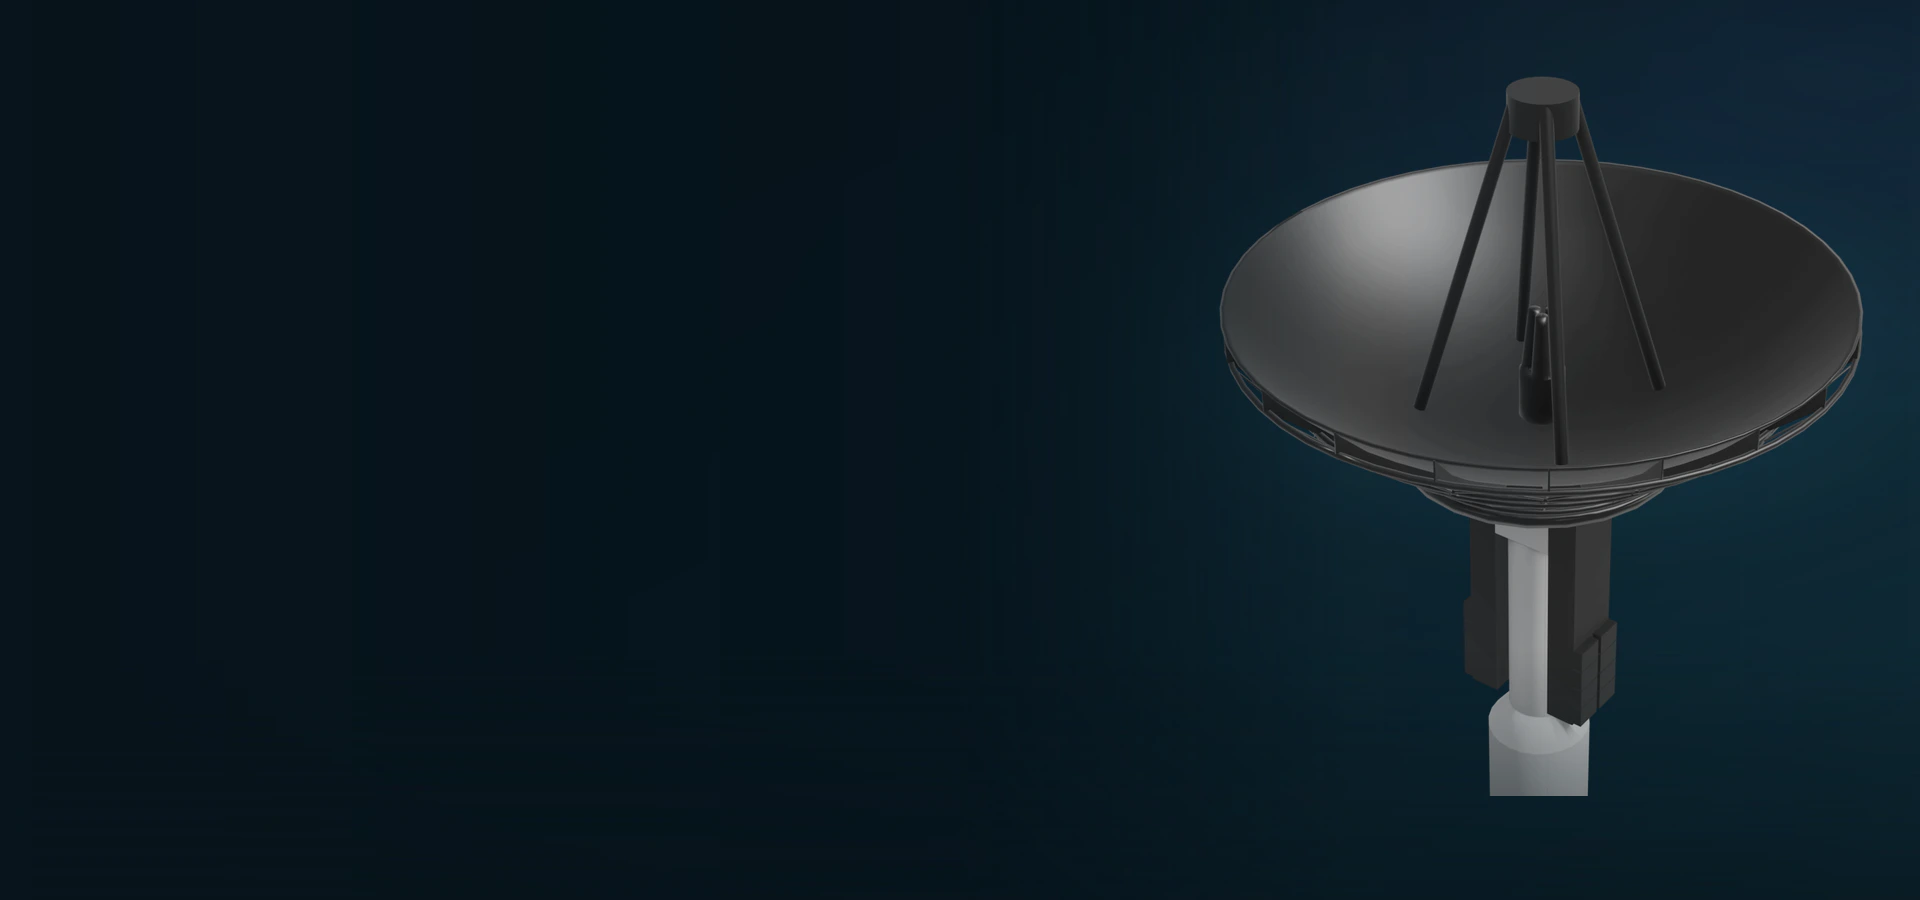
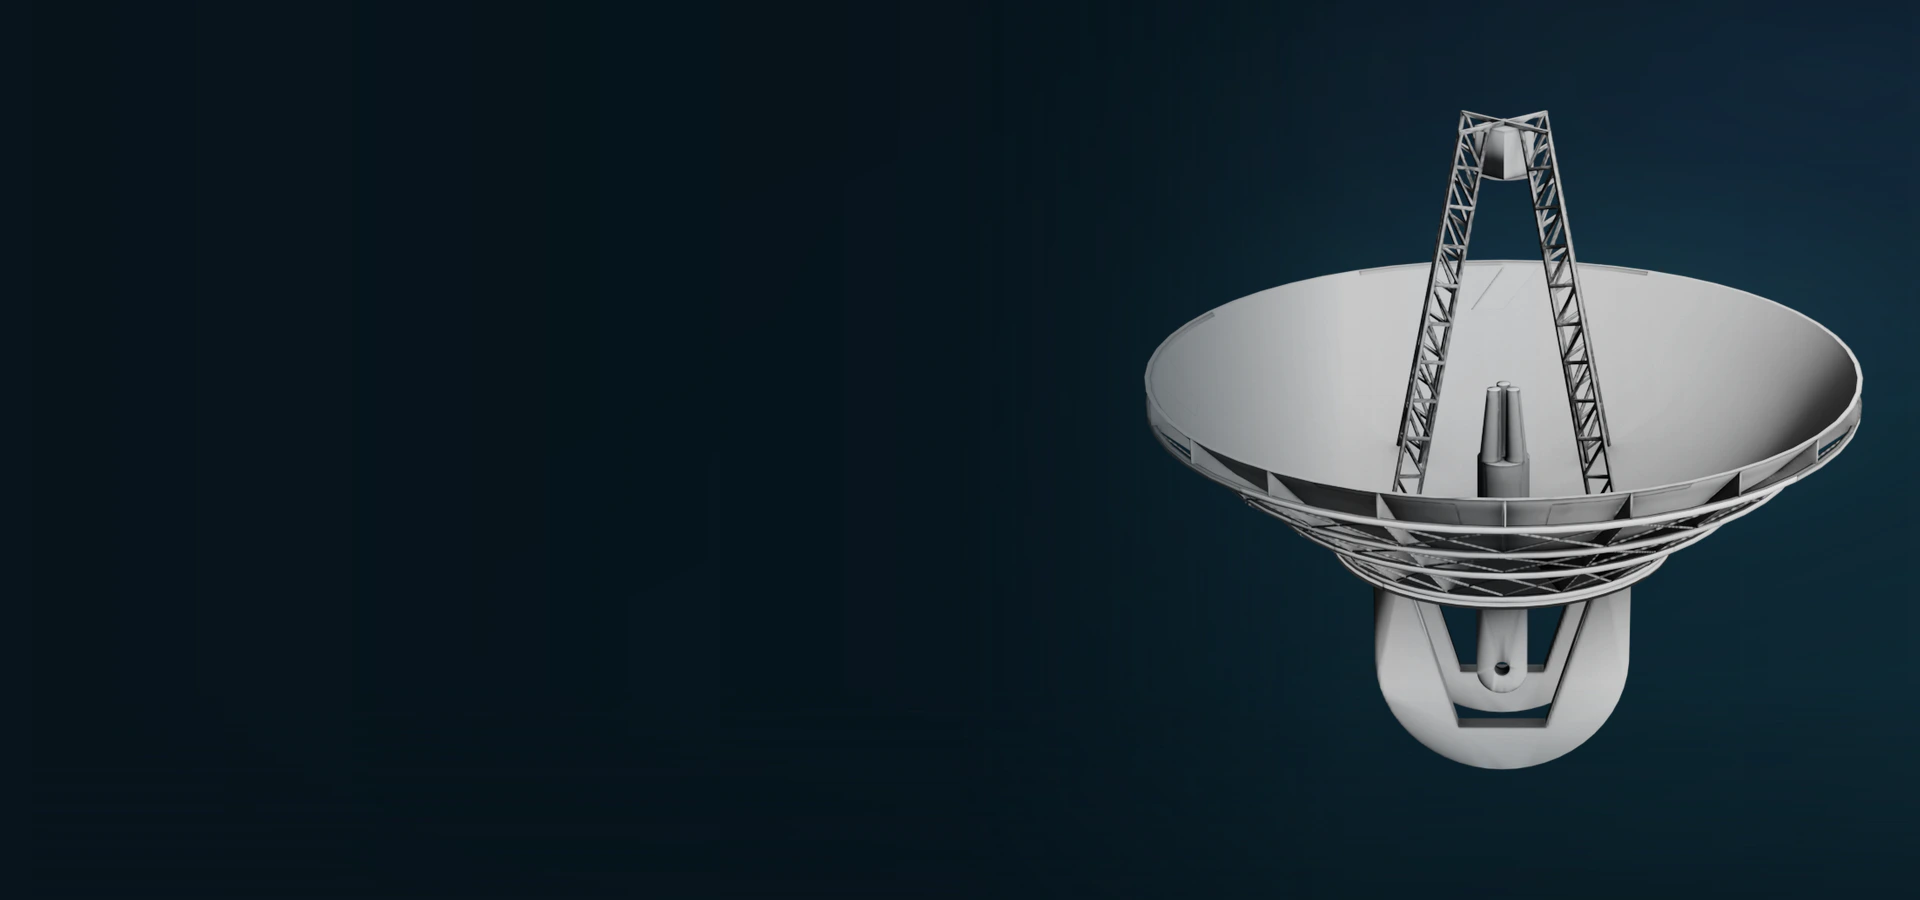
Updated hero image and added blending for the produce background onto the frame.

Changed region(s): [[0.5938, 0.0622, 0.9688, 0.9022]]

diff --git a/astro.config.ts b/astro.config.ts
@@ -5,7 +5,11 @@ export default defineConfig({
   site: 'https://mw-lab.ru',
   output: 'static',
   trailingSlash: 'always',
-  integrations: [sitemap()],
+  integrations: [
+    sitemap({
+      filter: (page) => page !== 'https://mw-lab.ru/spasibo/',
+    }),
+  ],
   redirects: {
     '/612-2/': 'https://cs.groteck.ru/SATCOM_2025/index.html',
     '/modernizatsiya-psss-drive-away/': 'https://cs.groteck.ru/SATCOM_2025/68/index.html',

diff --git a/MIGRATION.md b/MIGRATION.md
@@ -11,7 +11,7 @@ Migrated:
 - All 43 product titles, slugs, dates, primary images, descriptions, and supply conditions.
 - Ten publication titles, dates, covers, and external reader destinations.
 - Current public phone, email, and contact address.
-- Existing privacy-policy copy without editorial changes.
+- A site-specific privacy-policy draft describing the current form flow.
 - Current company-card PDF.
 - Existing canonical product, category, publication, contact, and legal paths.
 
@@ -42,7 +42,7 @@ The design uses an RF-instrument visual language rather than a general-purpose s
 - Geologica for display headings, Onest for body text, IBM Plex Mono for frequencies and utility labels.
 - Deep navy/teal surfaces, a cyan accent aligned with the legacy logo, and a restrained violet secondary.
 - A high-resolution transparent satellite-dish render, color-graded into the navy/cyan system instead of presenting a single catalog item as the company signature. Source and usage details are recorded in `ASSET-CREDITS.md`.
-- Original equipment photography in pale "inspection trays" so the white-background source images read as a deliberate system.
+- Original equipment photography in white "inspection trays" so the source-image backgrounds merge into a deliberate system.
 - Company metrics derived from catalog data (product count, category count, years since 2012) instead of hard-coded legacy counters.
 
 Responsive styles cover desktop, tablet, and mobile; keyboard focus and reduced-motion preferences are supported.

diff --git a/ASSET-CREDITS.md b/ASSET-CREDITS.md
@@ -2,11 +2,11 @@
 
 ## Homepage Satellite Dish
 
-- Asset: `Tall Dish`
+- Asset: `70-meter Dish`
 - Source: NASA 3D Resources
 - Creator: NASA/Ames Research Center
-- Source page: https://science.nasa.gov/3d-resources/tall-dish/
-- Repository: https://github.com/nasa/NASA-3D-Resources/tree/master/3D%20Models/Tall%20Dish
+- Source page: https://science.nasa.gov/3d-resources/70-meter-dish/
+- Repository: https://github.com/nasa/NASA-3D-Resources/tree/master/3D%20Models/70-meter%20Dish
 - Usage guidance: https://www.nasa.gov/nasa-brand-center/images-and-media/
 
 The transparent NASA render was color-graded and composited into the homepage background. NASA identifiers are not used, and the presentation does not imply NASA sponsorship or endorsement of MW-LAB or its products.

diff --git a/README.md b/README.md
@@ -11,7 +11,7 @@ npm run check
 npm run verify
 ```
 
-`npm run verify` type-checks, builds, checks all 43 product outputs and primary legacy routes, rejects old template strings and fake document links, and confirms the company PDF is published.
+`npm run verify` type-checks, builds, checks all 43 product outputs and legacy routes, validates publication redirects, form markup, search metadata, and the company PDF, and rejects old template strings and fake document links.
 
 ## Content
 
